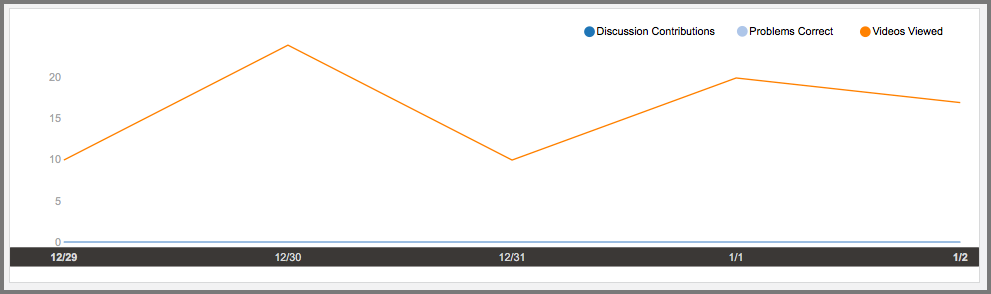
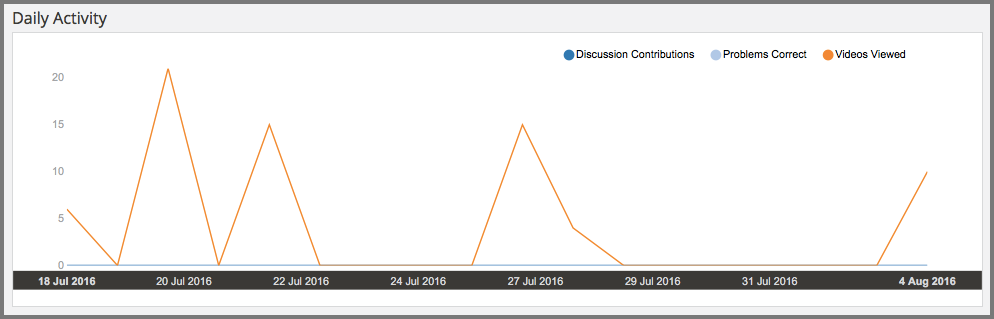
Update illustrations for x-axis date change

diff --git a/docs/en_us/dashboard/source/learners/Learner_Activity.rst b/docs/en_us/dashboard/source/learners/Learner_Activity.rst
@@ -107,7 +107,7 @@ that one these activities took place. Unlike the roster, this timeline is not
 limited to activity in the last seven days.
 
 Examples of learner activity charts follow. The first example shows the
-activity chart for a learner who is playing 10 or more course videos every
+activity chart for a learner who often plays 10 or more course videos per
 day. However, the learner is not answering any problems correctly, and has not
 yet contributed to the discussions.
 
@@ -122,21 +122,22 @@ understanding of this learner's experience, you could go back to the learner
 roster and key activity report to see if this learner is attempting to answer
 problems, but not managing to answer any correctly.
 
-The next example shows the activity chart for a learner who watches one or more
-videos almost every day, and who has occasionally contributed to the
-discussions. However, there was only a single day on which this learner
-answered any problems correctly. The tooltip shows the counts for each type of
-activity on that day.
+The next example shows the activity chart for a learner who occasionally
+watches videos, and who has not yet contributed to the discussions. However,
+there were only two days on which this learner answered any problems correctly.
+The tooltip shows the counts for each type of activity on one of those days.
 
 .. image:: ../images/learner_quiz.png
  :width: 800
- :alt: A learner activity chart showing ongoing discussion and video activity,
-     and a single day with problems correct activity.
+ :alt: A learner activity chart showing relatively little video activity,
+     and just two days with problems correct activity.
 
 Knowing the context of how your course is set up, this pattern might indicate
-when the learner reached the first homework assignment. Or, it might indicate
-that the learner completed all of the ungraded practice questions and the
-midterm on one day.
+that the learner completed the first homework assignment in your self-paced
+course and then, after some weeks off, completed the second homework
+assignment. Or, it might indicate that the learner started your
+instructor-paced course on schedule, but is now rushing to complete the
+remaining graded assignments before the end of the course.
 
 Sending Email Messages to Learners
 ***********************************

diff --git a/docs/en_us/dashboard/source/engagement/Engagement_Content.rst b/docs/en_us/dashboard/source/engagement/Engagement_Content.rst
@@ -42,18 +42,27 @@ tabular format and can be downloaded. See the **Content Engagement Breakdown**
 report.
 
 Examples of the Weekly Student Engagement chart follow. The first example shows
-a course that started only a few weeks ago. Callouts provide context for the
-data that is shown by indicating several recent occurrences: the beginning of
-the beta test, the course start date, and the due date of the first homework.
+a course a few weeks after the start date. The numbered callouts in the image
+provide context for the data that is shown.
 
 .. image:: ../images/engagement_chart_start.png
- :alt: A graph showing changes in number of engaged students over time.
+ :alt: A graph showing changes in the number of engaged students over time.
 
-In the second example, a small, private online course was developed on one
-instance of the platform, and then exported and imported to a different
-instance just before the course start date. The tooltip shows the number of
-students engaging in different activities on the same day that the final
-homework was due.
+#. Course development on edx.org, a period when engagement levels were low in
+   all three categories.
+
+#. The beginning of the beta test, when a slight increase in all of the
+   engagement categories can be detected.
+
+#. The course start date, when the number of active students increased
+   significantly.
+
+#. The due date of the first homework, when the number of students who tried a
+   problem increased.
+
+The second example is for a small, private online course. The tooltip shows the
+number of students engaging in different activities on the same day that the
+final homework was due.
 
 .. image:: ../images/engagement_chart_SPOC.png
  :alt: A graph with almost immediate activity in all three measures.

diff --git a/docs/en_us/dashboard/source/enrollment/Enrollment_Activity.rst b/docs/en_us/dashboard/source/enrollment/Enrollment_Activity.rst
@@ -42,20 +42,21 @@ review in tabular format and can be downloaded.
 
 A couple of examples of this chart follow for different courses. In the first
 example, for a MOOC, you see enrollment climb fairly steadily over a period of
-several months. The markers begin with two "student" enrollments (almost
-certainly the course creator and another course team member) on the day the
+several months. The markers begin with four enrollments (almost
+certainly the course creator and other course team members) on the day the
 course was created in Studio.
 
 .. image:: ../images/enrollment_chart.png
  :alt: A chart with the periods when the rate of enrollment increased
        circled.
 
-The chart does reveal several periods when the rate of new enrollments
+The chart reveals different time periods when the rate of new enrollments
 increased rapidly, or "spiked" (circled). The team for this course might have
 the contextual knowledge to correlate those periods with marketing efforts or
 automated enrollment events, or might want to research possible explanations.
-After the final spike, which coincided with the course start date on 17
-September, enrollment continued to increase.
+After the first spike, which coincided with the course start date on 15 April,
+enrollment continued to increase and an additional spike occurred over a month
+later.
 
 The second example shows the Daily Student Enrollment chart for a small,
 private online course. In this course, the course team used the instructor
